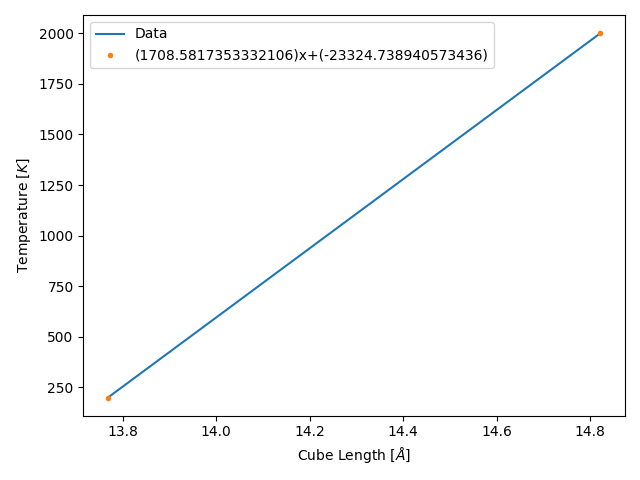
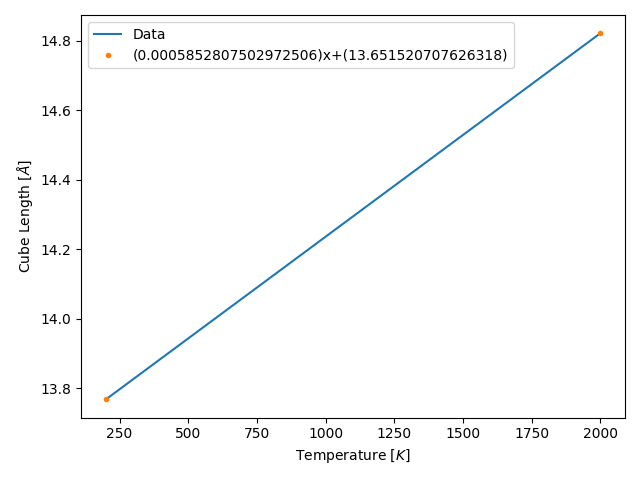
Fixed linear fit. Started the process on cooling runs

diff --git a/volumes/run_creator/cooling_holds/scripts/generate_hold_runs.py b/volumes/run_creator/cooling_holds/scripts/generate_hold_runs.py
@@ -1,40 +1,59 @@
-from ast import literal_eval
 from shutil import copyfile
 
+import pandas as pd
 import numpy as np
 import functions
-import sys
 import os
-
-sys.argv[1:] = [literal_eval(i) for i in sys.argv[1:]]  # Convert types
+import re
 
 # Input paramters
-elements = sys.argv[1]  # Elements
-numbers = sys.argv[2]  # Number corresponding to each element
-coords = sys.argv[3]  # Starting coordinates
-save = sys.argv[4]  # Location to save POSCAR
-runs = sys.argv[5]  # List of cubic lattice constants
-incar = sys.argv[6]  # The VASP input file
-kpoints = sys.argv[7]  # The VASP kpoints file
-potcar = sys.argv[8]  # The VASP potential file
-submit = sys.argv[9]  # The cluster submit file
+coords = '../templates/poscar/256.txt'  # Starting coordinates
+save = '../runs'  # Location to save POSCAR
+incar = '../templates/incar/temperature_2000K_3ps'  # The VASP input file
+kpoints = '../templates/kpoints/M'  # The VASP kpoints file
+potcar = '/home/leschultz/work/POTCARs/paw/LDA/5.4'  # The VASP potential file
+submit = '../templates/submit/bardeen_yipeng.q'  # The cluster submit file
+fits = '../../../tv_curves/data/data.csv'  # Data for linear fits
+start_temp = 2000  # The starting temperature
 
 coords = np.loadtxt(coords)  # Load starting coordinates
 coords = coords/coords.max(axis=0)  # Make fractional
 np.random.shuffle(coords)  # Randomize coordinates
 
-# Generate runs
+# Load the linear fits
+fits = pd.read_csv(fits)
+
+groups = fits.groupby(['composition'])
+
 count = 1
-total = str(len(runs))
-for number in runs:
-    run = os.path.join(save, str(number))
+total = str(fits.shape[0])
+for group, values in groups:
+
+    i = re.split('(\d+)', group)
+    i = [j for j in i if j != '']
+
+    for j in range(len(i)):
+        try:
+            i[j] = int(i[j])
+        except Exception:
+            pass
+
+    numbers = [j for j in i if isinstance(j, int)]
+    elements = [j for j in i if isinstance(j, str)]
+
+    m = values['slope'].values[0]
+    b = values['intercept'].values[0]
+
+    length = m*start_temp+b
+
+    run = os.path.join(save, group)
 
     # Generates structure
     structure = functions.gen_cubic(
                                     elements,
                                     numbers,
                                     coords,
-                                    number,
+                                    length,
                                     )
 
     # Find matching POTCARS

diff --git a/volumes/tv_curves/scripts/tv.py b/volumes/tv_curves/scripts/tv.py
@@ -28,8 +28,8 @@ for group, values in groups:
     name = str(group)
     print('Grouped by: '+name)
 
-    y = values['temperature'].values
-    x = values['cube_length'].values
+    x = values['temperature'].values
+    y = values['cube_length'].values
 
     m, b, r, p, std = linregress(x, y)
 
@@ -48,8 +48,8 @@ for group, values in groups:
         ax.plot(xfit, yfit, label='Data')
         ax.plot(x, y, linestyle='none', marker='.', label=equation)
 
-        ax.set_xlabel(r'Cube Length $[\AA]$')
-        ax.set_ylabel(r'Temperature $[K]$')
+        ax.set_ylabel(r'Cube Length $[\AA]$')
+        ax.set_xlabel(r'Temperature $[K]$')
 
         ax.legend()
 
